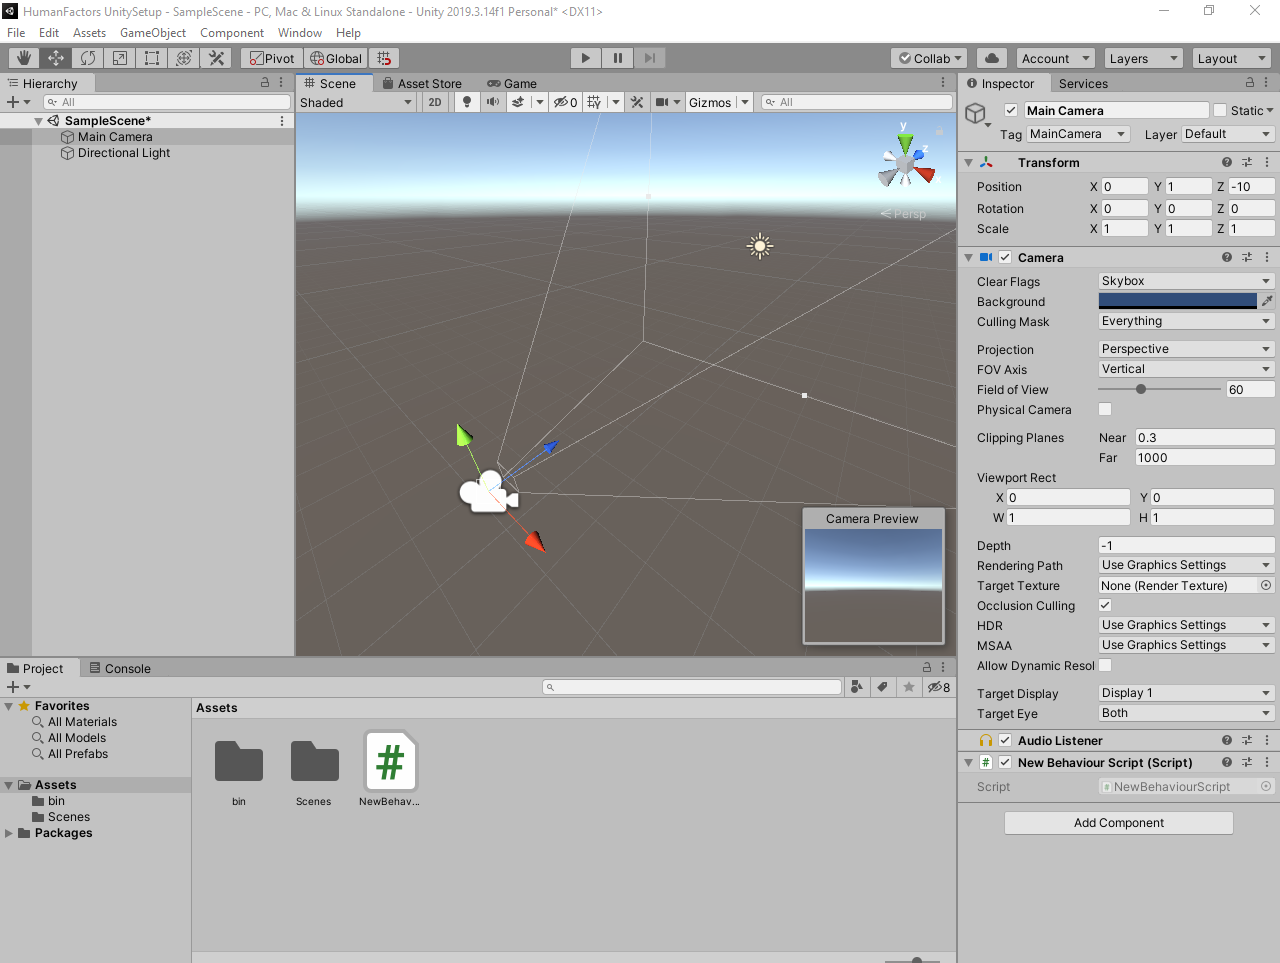
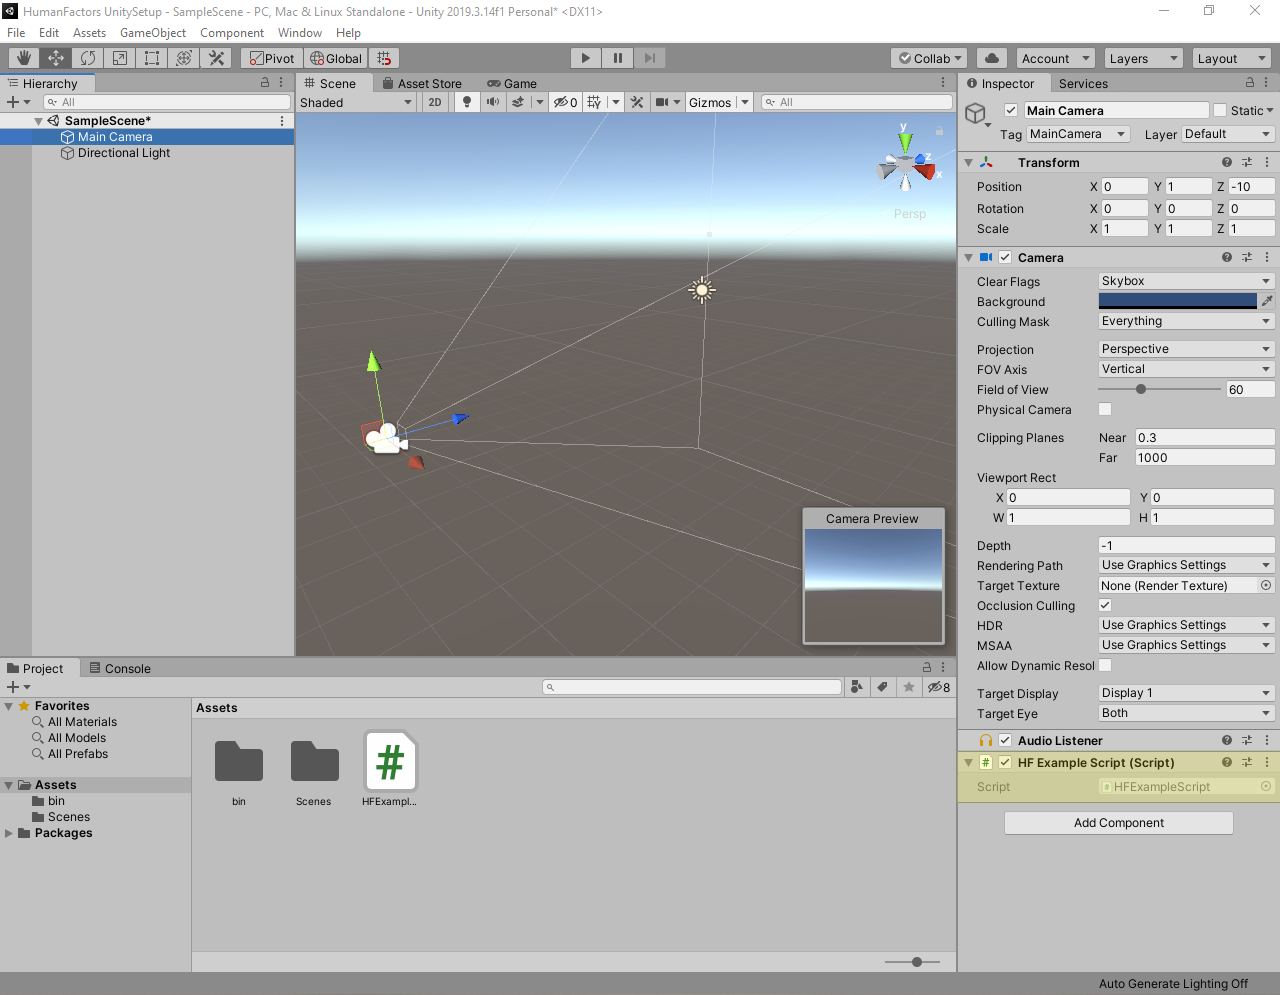
Show how to reopen the inspector

diff --git a/docs/C# Documentation/markdown/2_raycast_at_plane.md b/docs/C# Documentation/markdown/2_raycast_at_plane.md
@@ -39,7 +39,7 @@ In the Visual Studio window you've just opened, Look at the contents of the NewB
 
 ### Using Declarations
 
-Before getting into the logic of the script itself, we will add using declarations for the namespaces in HumanFactors that we plan to reference in this script. 
+Before getting into the logic of the script itself, we will add using declarations for the namespaces in HumanFactors that we plan to reference in this script.
 
 Add the following lines to the top of the script.
 
@@ -50,7 +50,7 @@ using HumanFactors.Geometry;
 ```
 
 
-!["NewBehaviourScript Usings"](../assets/walkthroughs/unity/2_raycast_at_plane/add_using_delcarations.png)
+!["HFExampleScript Usings"](../assets/walkthroughs/unity/2_raycast_at_plane/add_using_delcarations.png)
 
 *Figure* **2.2**: *The Using declarations required for this script*
 
@@ -204,7 +204,7 @@ using HumanFactors;
 using HumanFactors.RayTracing;
 using HumanFactors.Geometry;
 
-public class NewBehaviourScript : MonoBehaviour
+public class HFExampleScript : MonoBehaviour
 {
     // Start is called before the first frame update
     void Start()
@@ -260,19 +260,20 @@ Now that we have a usable script, we need to attach it to some game object in or
 
 ### Adding the script to the camera
 
-In the Unity window drag *NewBehaviorScript.cs* to *Main Camera* in the scene hierarchy.
+In the Unity window drag *HFExampleScript.cs* to *Main Camera* in the scene hierarchy.
 
 ![Drag NewBehaviour.cs Into Camera](../assets/walkthroughs/unity/2_raycast_at_plane/drag_into_camera.png)
 
 After doing this, it may look like nothing happened, but by dragging NewBehaviorScript over the camera you've added NewBehaviorScript to the camera as a component. You can verify this by Left Clicking the camera in the scene hierarchy and looking at its components in the Inspector on the right sidebar.
 
+>**NOTE**: If you don't see the inspector in the right sidebar, you can enable it by selecting Window > General > Inspector from the top menubar. ![Re-Open Inspector](../assets/walkthroughs/unity/2_raycast_at_plane/re_open_inspector.png)
+
 ![Look At Camera In Sidebar](../assets/walkthroughs/unity/2_raycast_at_plane/camera_in_sidebar.png)
 
-At the bottom of the Inspector you should see a header for New Behaviour Script. Once you've made sure it exists, you can click on an empty space in the scene view to deselect the camera.
+At the bottom of the Inspector you should see a header for HF Example Script. Once you've made sure it exists, you can click on an empty space in the scene view to deselect the camera.
 
 >**NOTE**: If you click on the camera and notice multiple copies of the script, you can remove a component by left clicking on the rightmost side of header for the components of the extra scripts in the inspector, then click the remove component button.
 >![Remove Extra Component](../assets/walkthroughs/unity/2_raycast_at_plane/remove_extra_component.png)
-
 
 ### Executing the Script
 
